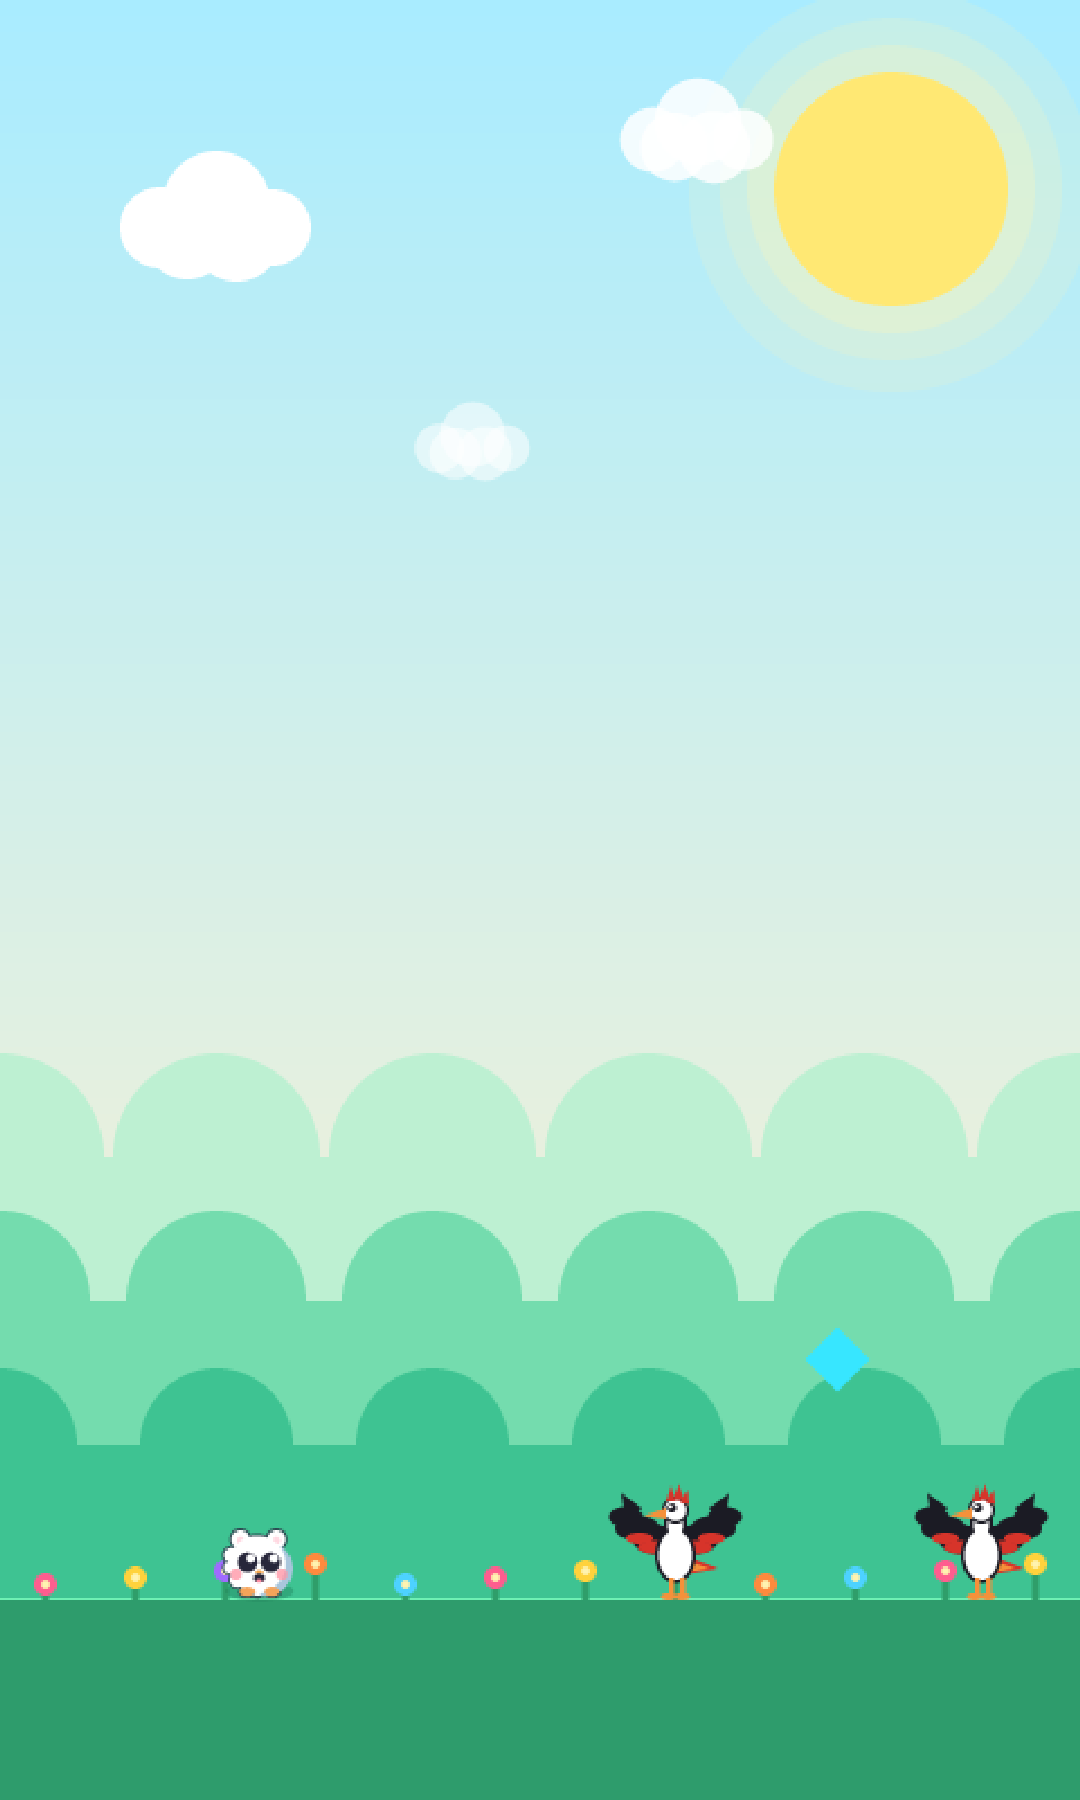
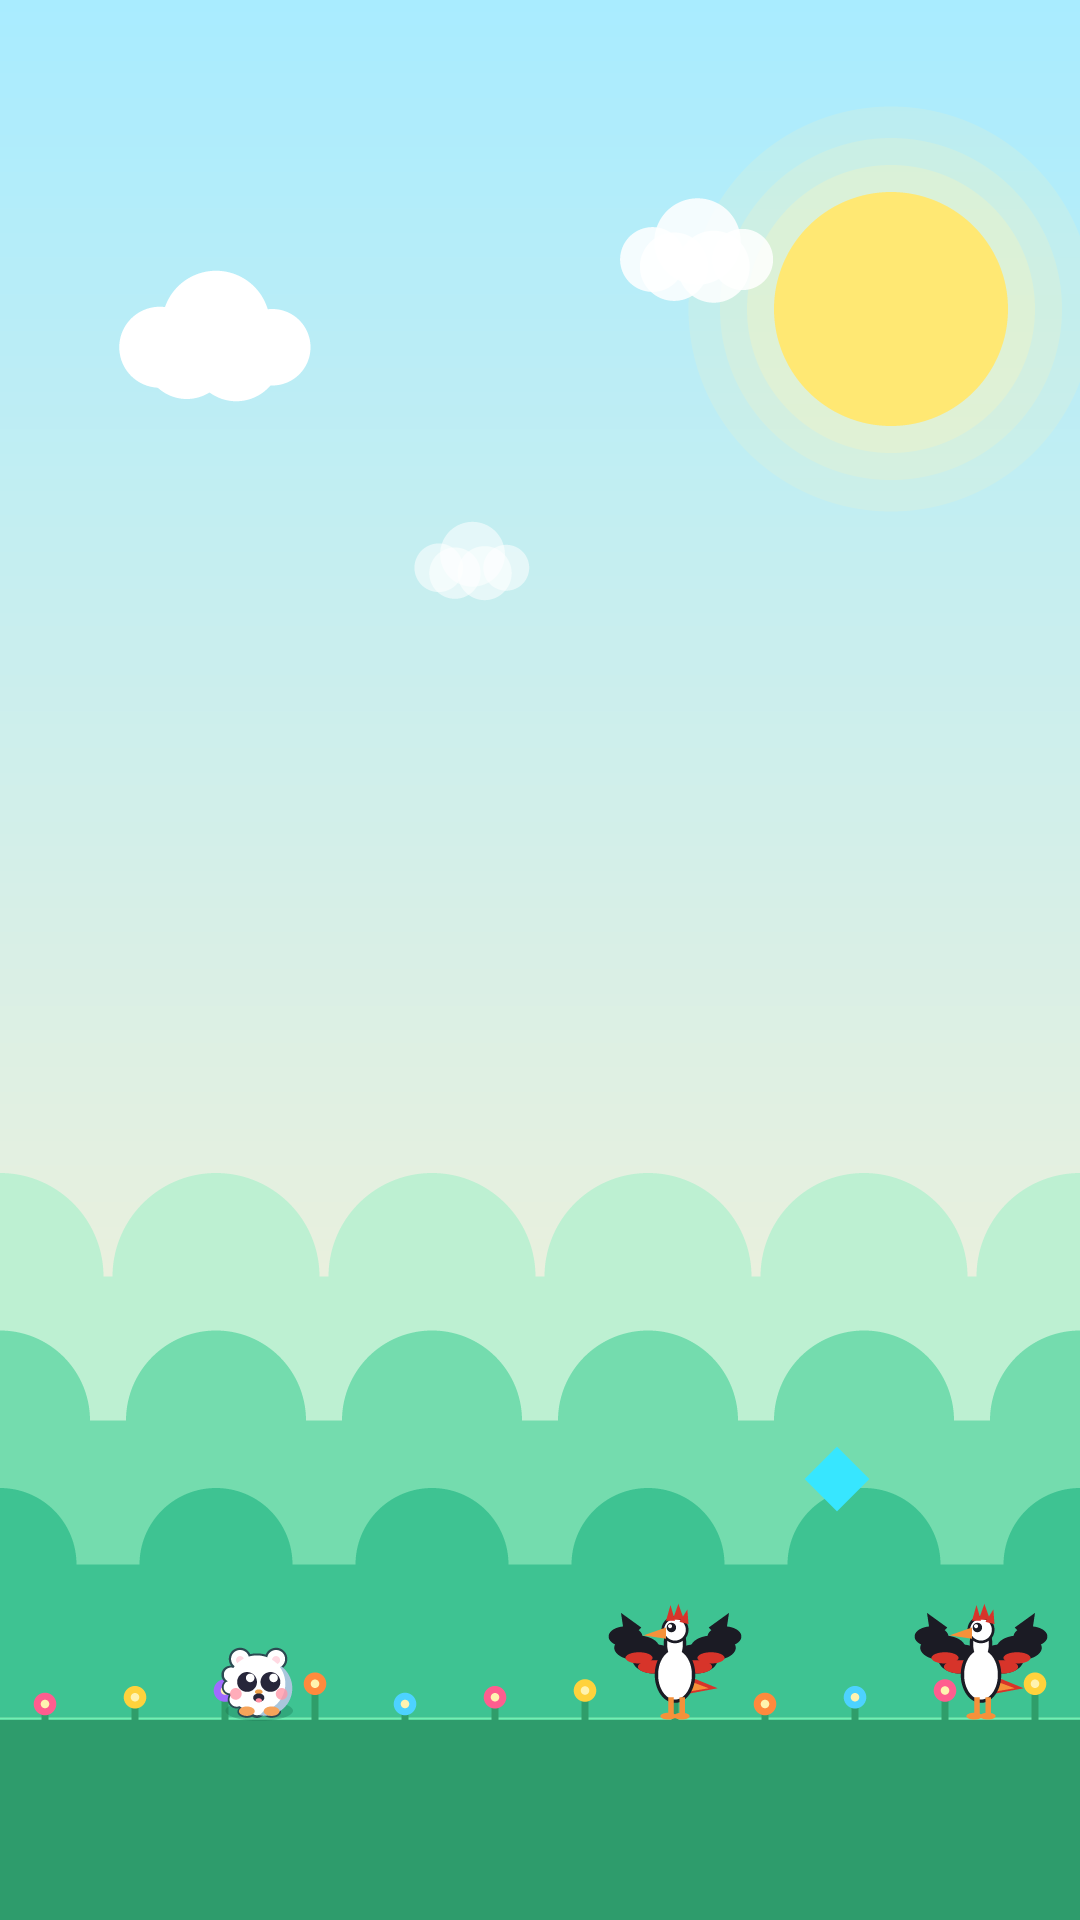
fix: screenshots must be 1080x1920, not 1080x1800
The Indus console requires exactly 1080x1920 (or 1920x1080); the generated
screenshots were 1080x1800 and would have been rejected at upload.

The game canvas is 480x800 (3:5), which is not 9:16, so a straight 2.25x scale
lands at 1080x1800. Rather than letterbox the difference, the scene is now
anchored to the bottom of a true 1080x1920 frame and the extra 120px becomes
additional sky — a correctly proportioned view of the game rather than a padded
one. CI's dimension check updated to match.

diff --git a/scripts/make-store-assets.js b/scripts/make-store-assets.js
@@ -107,35 +107,60 @@ function featureGraphic() {
 write(featureGraphic(), 'feature-graphic-1024x500.png');
 
 // -------------------------------------------------------------- gameplay ---
-// A faithful frame of the running game, at the real 480x800 layout, then scaled
-// to a 1080x1920 phone screenshot.
+// Phone screenshots at exactly 1080x1920 — the dimension stores ask for.
+//
+// The game canvas is 480x800 (3:5), which is NOT 9:16, so scaling it up gives
+// 1080x1800 and leaves 120px unaccounted for. Rather than letterbox with bars,
+// the scene is anchored to the bottom and the extra height becomes more sky —
+// so the frame is a genuine, correctly-proportioned view of the game rather
+// than a padded one.
+const SHOT_W = 1080, SHOT_H = 1920;
+const S = SHOT_W / G.W;                  // 2.25
+const DY = SHOT_H - G.H * S;             // 120px of extra sky on top
+
 function gameplayFrame({ playerY = G.GROUND_Y - 17, storks = [300, 436], shard = [372, 604] } = {}) {
-  const c = new Canvas(G.W, G.H, 0xa9ecff);
-  tl(c, 'sky', 0, 0);
-  at(c, 'sun', G.W - 84, 84);
-  at(c, 'cloud', 96, 96);
-  at(c, 'cloud', 310, 58, 0.8, 0.85);
-  at(c, 'cloud', 210, 196, 0.6, 0.55);
-  tl(c, 'hillFar', 0, 468);
-  tl(c, 'hillMid', 0, 538);
-  tl(c, 'hillNear', 0, 608);
-  tl(c, 'ground', 0, G.GROUND_Y);
-  tl(c, 'verge', 0, G.GROUND_Y - 36);
+  const c = new Canvas(SHOT_W, SHOT_H, 0xa9ecff);
+  const groundLine = G.GROUND_Y * S + DY;
+
+  // Sky painted across the full height rather than blitting the 480x710 sky
+  // texture, which would leave the top 120px empty.
+  c.gradientV(0, groundLine, 0xa9ecff, 0xfff2d2, 140);
+
+  /** Centre-origin placement in game coordinates. */
+  const put = (key, cx, cy, s = 1, a = 1) => {
+    const t = T(key);
+    c.replay(t.ops, cx * S - (t.width * s * S) / 2, cy * S + DY - (t.height * s * S) / 2, s * S, a);
+  };
+  /** Top-left placement in game coordinates. */
+  const lay = (key, x, y, s = 1, a = 1) => c.replay(T(key).ops, x * S, y * S + DY, s * S, a);
+
+  put('sun', G.W - 84, 84);
+  put('cloud', 96, 96);
+  put('cloud', 310, 58, 0.8, 0.85);
+  put('cloud', 210, 196, 0.6, 0.55);
+  lay('hillFar', 0, 468);
+  lay('hillMid', 0, 538);
+  lay('hillNear', 0, 608);
+  lay('ground', 0, G.GROUND_Y);
+  lay('verge', 0, G.GROUND_Y - 36);
+
   // contact shadow, tightening the higher the critter is
   const air = Math.min(1, Math.max(0, (G.GROUND_Y - 17 - playerY) / 130));
   c.setFill(0x14684a, 0.3 - air * 0.2);
-  c.ellipse(G.W * 0.24, G.GROUND_Y - 3, 30 * (1 - air * 0.4), 9 * (1 - air * 0.4));
-  for (const x of storks) at(c, 'stork', x, G.GROUND_Y - 25);
-  if (shard) at(c, 'shard', shard[0], shard[1], 1.6);
-  at(c, 'player', G.W * 0.24, playerY);
+  c.ellipse(G.W * 0.24 * S, (G.GROUND_Y - 3) * S + DY,
+    30 * (1 - air * 0.4) * S, 9 * (1 - air * 0.4) * S);
+
+  for (const x of storks) put('stork', x, G.GROUND_Y - 25);
+  if (shard) put('shard', shard[0], shard[1], 1.6);
+  put('player', G.W * 0.24, playerY);
   return c;
 }
 
-write(gameplayFrame(), 'screenshot-1-play.png', 2.25);
+write(gameplayFrame(), 'screenshot-1-play.png');
 write(gameplayFrame({ playerY: G.GROUND_Y - 95, storks: [200, 400], shard: [300, 560] }),
-  'screenshot-2-jump.png', 2.25);
+  'screenshot-2-jump.png');
 write(gameplayFrame({ playerY: G.GROUND_Y - 60, storks: [150, 280, 410], shard: null }),
-  'screenshot-3-streak.png', 2.25);
+  'screenshot-3-streak.png');
 
 console.log(`Store assets written to store-assets/ (from the game's own textures):`);
 for (const w of written) console.log(`  ${w}`);

diff --git a/STORE-LISTING.md b/STORE-LISTING.md
@@ -83,7 +83,7 @@ All in [`store-assets/`](store-assets/), generated from the game's own artwork:
 |---|---|
 | `icon-512.png` | App icon (512×512) |
 | `feature-graphic-1024x500.png` | Feature graphic / banner |
-| `screenshot-1-play.png` | Phone screenshot (1080×1800) |
+| `screenshot-1-play.png` | Phone screenshot (1080×1920) |
 | `screenshot-2-jump.png` | Phone screenshot |
 | `screenshot-3-streak.png` | Phone screenshot |
 
